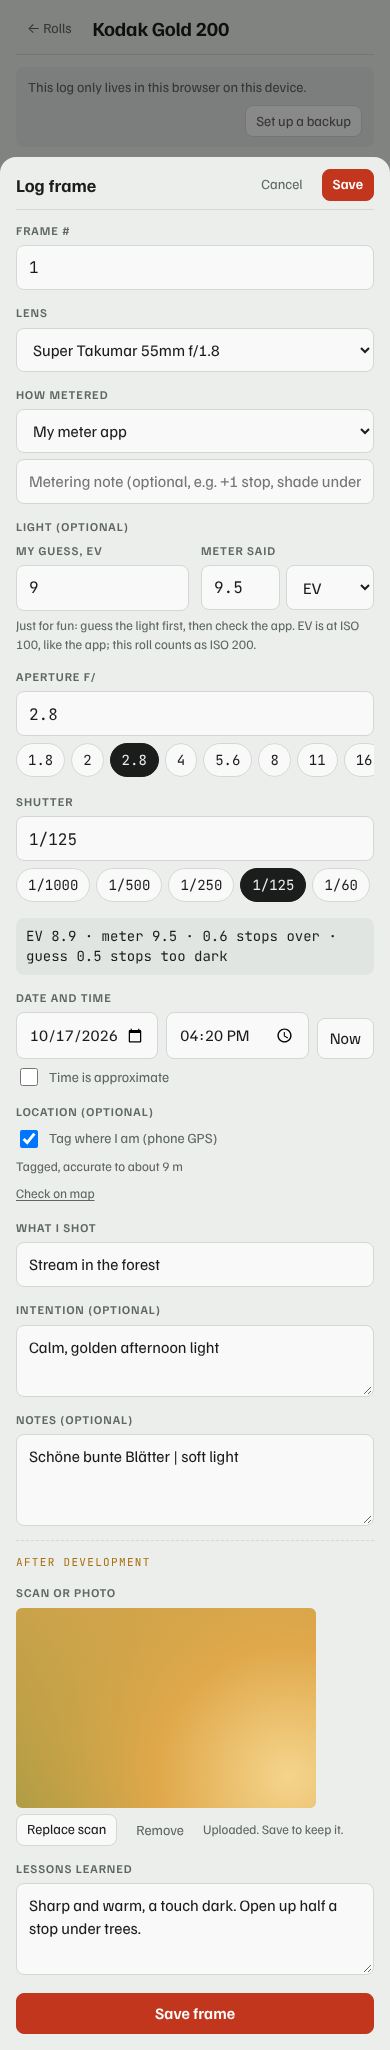
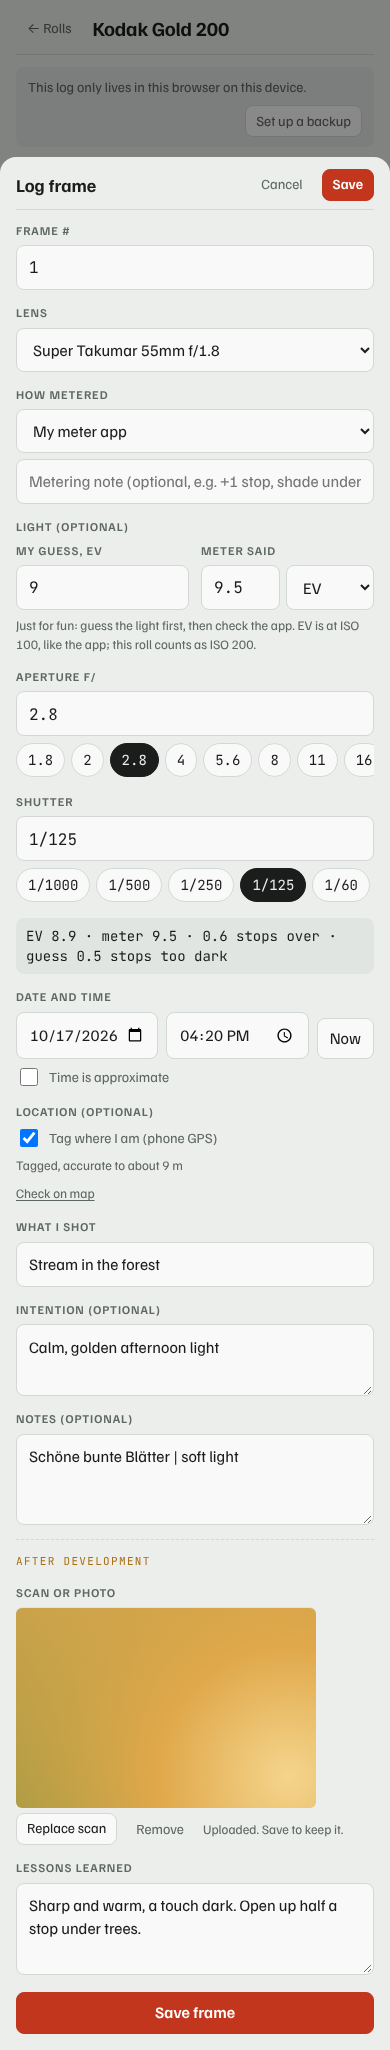
Show dates and times in the device's own format
The lists used a fixed dd.mm.yyyy format while the form followed the
browser. Both now follow the device language. Screenshots retaken.

Claude-Session: https://claude.ai/code/session_01KcJUmRpgootFaasABVMDKB

Changed region(s): [[0.0615, 0.8741, 0.2769, 0.9054], [0.4615, 0.9678, 0.4923, 0.999], [0.4, 0.9678, 0.4308, 0.999]]

diff --git a/app.js b/app.js
@@ -1,7 +1,7 @@
 /* Film Log: the user interface. Data access goes through store.js, backups through sync.js. */
 (() => {
 "use strict";
-const VERSION = "1.0.3";   // keep in step with CACHE in sw.js
+const VERSION = "1.0.4";   // keep in step with CACHE in sw.js
 const Store = window.FilmLogStore, Sync = window.FilmLogSync;
 const METERING = ["App", "Kept settings", "Sunny 16", "Guessed", "App + guess", "Other"];   // built-in ways to meter; people add their own
 const APERTURES = ["1.8", "2", "2.8", "4", "5.6", "8", "11", "16"];
@@ -23,7 +23,11 @@ const esc = s => String(s ?? "").replace(/[&<>"']/g, c => ({ "&": "&amp;", "<": 
 const pad = n => String(n).padStart(2, "0");
 const nowParts = () => { const d = new Date(); return { date: `${d.getFullYear()}-${pad(d.getMonth() + 1)}-${pad(d.getDate())}`, time: `${pad(d.getHours())}:${pad(d.getMinutes())}` }; };
 const newId = p => p + Date.now().toString(36) + Math.random().toString(36).slice(2, 6);
-const fmtDate = d => { if (!d) return ""; const [y, m, dd] = d.split("-"); return `${dd}.${m}.${y}`; };
+/* Dates and times are shown the way the device's language writes them (17.10.2026, 10/17/2026, …); stored values stay ISO. */
+const D_FULL = { day: "2-digit", month: "2-digit", year: "numeric" }, D_SHORT = { day: "2-digit", month: "2-digit" }, T_HM = { hour: "2-digit", minute: "2-digit" };
+const isoDate = d => { const [y, m, dd] = String(d).split("-").map(Number); return new Date(y, (m || 1) - 1, dd || 1); };
+const fmtDate = (d, opts) => { if (!d) return ""; const x = isoDate(d); return isNaN(x) ? d : x.toLocaleDateString(undefined, opts || D_FULL); };
+const fmtTime = t => { const m = String(t || "").match(/^(\d{1,2}):(\d{2})/); return m ? new Date(2000, 0, 1, +m[1], +m[2]).toLocaleTimeString(undefined, T_HM) : (t || ""); };
 const shutterLabel = s => s || "";
 const apLabel = a => a ? "f/" + a : "";
 
@@ -143,7 +147,7 @@ function hydrateBlobs(root) {
     if (url) { img.src = url; img.hidden = false; }
   });
 }
-const fmtStamp = iso => { if (!iso) return "never"; const d = new Date(iso); return `${pad(d.getDate())}.${pad(d.getMonth() + 1)}.${d.getFullYear()} ${pad(d.getHours())}:${pad(d.getMinutes())}`; };
+const fmtStamp = iso => { if (!iso) return "never"; const d = new Date(iso); return isNaN(d) ? "never" : `${d.toLocaleDateString(undefined, D_FULL)} ${d.toLocaleTimeString(undefined, T_HM)}`; };
 function bannerHTML() {
   const st = Sync.status;
   if (st.folder.state === "needs-permission") return `<div class="banner warn">Your backup folder “${esc(st.folder.name)}” needs access again. <button class="btn small" data-banner="reconnect">Reconnect</button></div>`;
@@ -174,9 +178,8 @@ function render() {
 function rollRange(r) {
   const a = r.firstShot, b = r.lastShot;
   if (!a) return "";
-  const [ay, am, ad] = a.split("-"), [by, bm, bd] = (b || a).split("-");
-  if (a === b || !b) return `${ad}.${am}.${ay}`;
-  return ay === by ? `${ad}.${am}. – ${bd}.${bm}.${by}` : `${ad}.${am}.${ay} – ${bd}.${bm}.${by}`;
+  if (a === b || !b) return fmtDate(a);
+  return `${fmtDate(a, a.slice(0, 4) === b.slice(0, 4) ? D_SHORT : D_FULL)} – ${fmtDate(b)}`;
 }
 const DEV = [["devLab", "Lab"], ["devOptions", "Development options"], ["devSent", "Sent to lab"], ["devBack", "Back from lab"], ["devNotes", "Development notes"]];
 function devBlock(r) {
@@ -224,7 +227,7 @@ function sortedShots(desc) {
 
 function shotHTML(s, iso) {
   const kept = s.metering === "Kept settings";
-  const when = [fmtDate(s.date), s.time ? (s.timeApprox ? "~" : "") + s.time : (s.timeApprox ? "time unknown" : "")].filter(Boolean).join(" ");
+  const when = [fmtDate(s.date), s.time ? (s.timeApprox ? "~" : "") + fmtTime(s.time) : (s.timeApprox ? "time unknown" : "")].filter(Boolean).join(" ");
   return `<button class="shot" data-shot="${esc(s.id)}">
     <span class="n">${esc(s.n)}<small>▶${esc(s.n)}A</small></span>
     <span class="body">
@@ -386,7 +389,7 @@ function openShotSheet(roll, shot, seq) {
         <div class="sub">${esc(s.lens)}</div>
         <div class="sub">${esc(s.metering)}${s.meteringNote ? " · " + esc(s.meteringNote) : ""}${meterLabel(s) ? " · " + esc(meterLabel(s)) : ""}</div>
         ${evLineHTML(s, iso)}
-        <div class="sub">${esc(fmtDate(s.date))} ${s.time ? (s.timeApprox ? "~" : "") + esc(s.time) : ""}</div>
+        <div class="sub">${esc(fmtDate(s.date))} ${s.time ? (s.timeApprox ? "~" : "") + esc(fmtTime(s.time)) : ""}</div>
         ${s.loc ? mapLinkHTML(s.loc) : ""}
       </div>`}
       <div id="expoFields" style="display:grid;gap:14px" ${isNew ? "" : "hidden"}>

diff --git a/tests/e2e.js b/tests/e2e.js
@@ -27,7 +27,7 @@ async function ghRoute(route) {
 (async () => {
   await new Promise(r => server.listen(8765, r)); const URL0 = 'http://localhost:8765/';
   const b = await chromium.launch();
-  const ctx = await b.newContext({ viewport: { width: 390, height: 844 }, geolocation: { latitude: 50.73741, longitude: 7.09823, accuracy: 9 }, permissions: ['geolocation'], acceptDownloads: true });
+  const ctx = await b.newContext({ locale: 'en-GB', viewport: { width: 390, height: 844 }, geolocation: { latitude: 50.73741, longitude: 7.09823, accuracy: 9 }, permissions: ['geolocation'], acceptDownloads: true });
   await ctx.route('https://api.github.com/**', ghRoute);
   const p = await ctx.newPage(); const errs = [];
   p.on('pageerror', e => errs.push('pageerror ' + e.message)); p.on('console', m => { if (m.type() === 'error') errs.push('console ' + m.text()); });

diff --git a/sw.js b/sw.js
@@ -1,7 +1,7 @@
 /* Film Log service worker: keeps the app shell available offline.
    Cached files are served first and refreshed in the background, so an update
    shows up the second time the app is opened. Bump CACHE with every release. */
-const CACHE = "film-log-1.0.3";
+const CACHE = "film-log-1.0.4";
 const SHELL = ["./", "index.html", "docs.html", "app.css", "app.js", "store.js", "sync.js", "manifest.webmanifest",
   "icons/icon.svg", "icons/icon-192.png", "icons/icon-512.png", "icons/icon-maskable-512.png",
   "fonts/familjen-grotesk-latin-400-normal.woff2", "fonts/familjen-grotesk-latin-500-normal.woff2",
